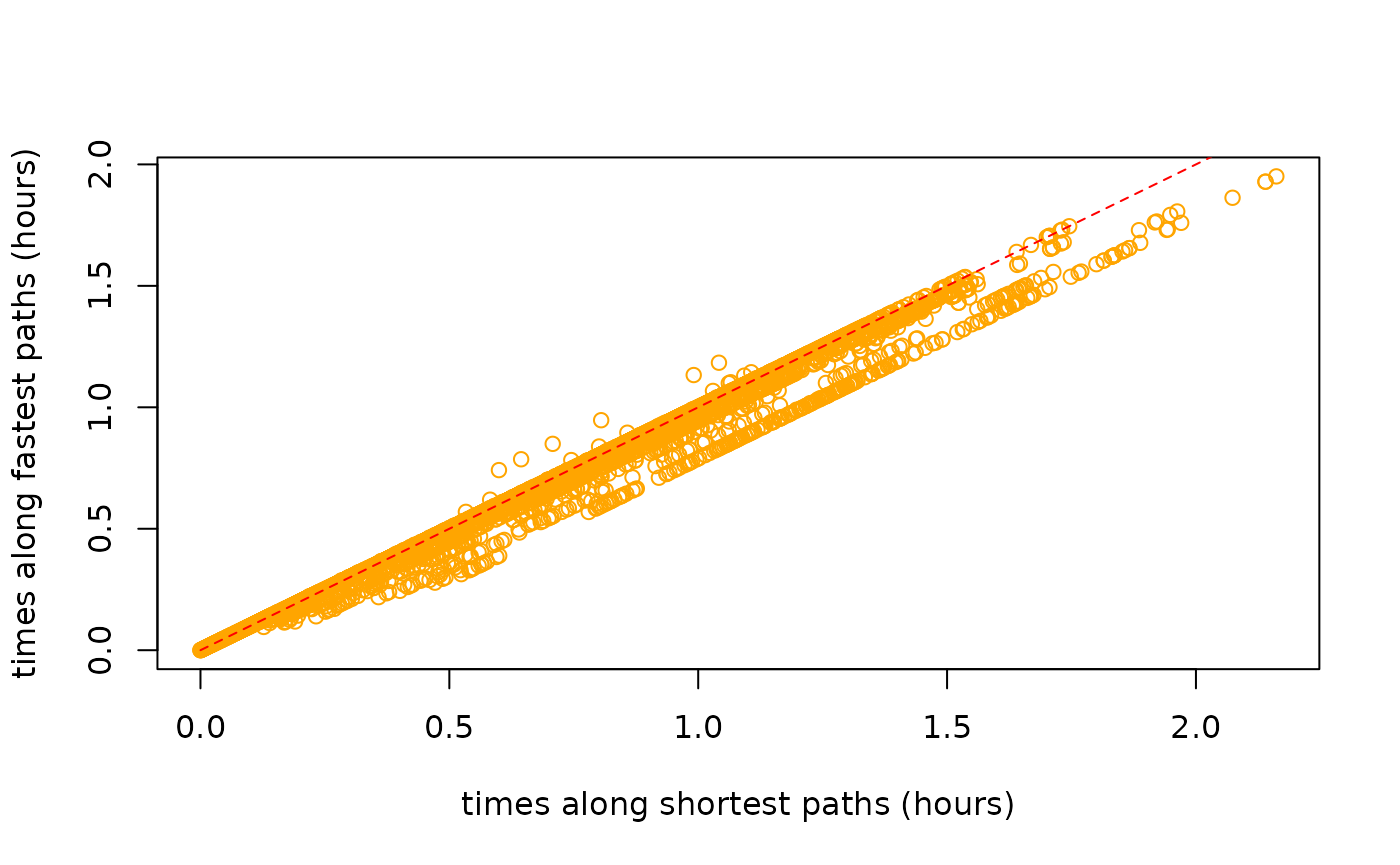
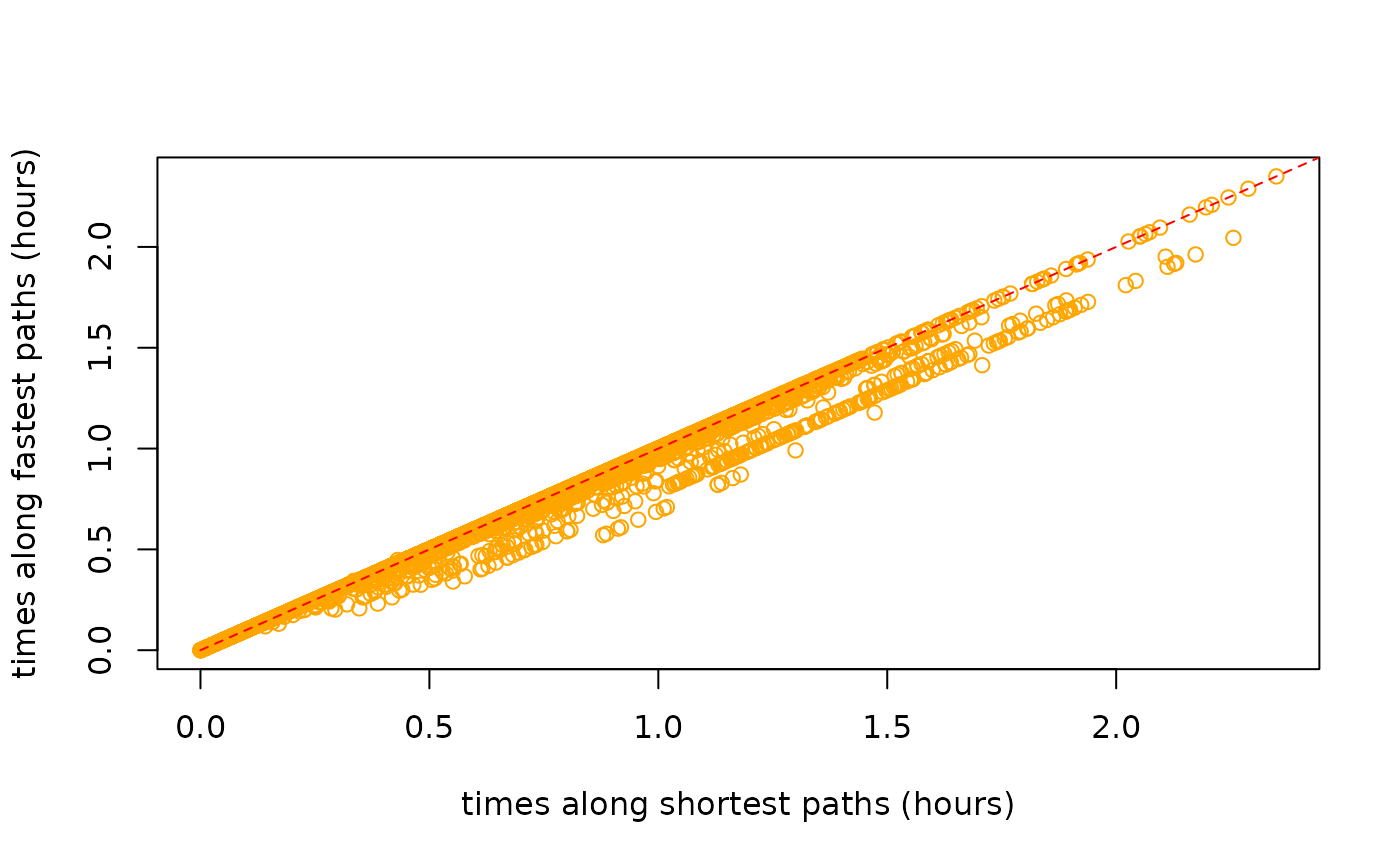
Deploying to gh-pages from @ ATFutures/dodgr@b4c1f31bfb7057be95e65e1cdec4d142c34d1589 🚀

diff --git a/docs/articles/dodgr.html b/docs/articles/dodgr.html
@@ -359,7 +359,7 @@
 <div class="sourceCode" id="cb58"><pre class="downlit sourceCode r">
 <code class="sourceCode R"><span class="va">graph_sub</span> <span class="op">&lt;-</span> <span class="fu"><a href="../reference/dodgr_sample.html">dodgr_sample</a></span> <span class="op">(</span><span class="va">graph</span>, nverts <span class="op">=</span> <span class="fl">100</span><span class="op">)</span>
 <span class="fu"><a href="https://rdrr.io/r/base/nrow.html" class="external-link">nrow</a></span> <span class="op">(</span><span class="va">graph_sub</span><span class="op">)</span></code></pre></div>
-<pre><code><span class="co">## [1] 199</span></code></pre>
+<pre><code><span class="co">## [1] 201</span></code></pre>
 <p>The random sample has around twice as many edges as vertices, in accordance with the statistics calculated above.</p>
 <div class="sourceCode" id="cb60"><pre class="downlit sourceCode r">
 <code class="sourceCode R"><span class="fu"><a href="https://rdrr.io/r/base/nrow.html" class="external-link">nrow</a></span> <span class="op">(</span><span class="fu"><a href="../reference/dodgr_vertices.html">dodgr_vertices</a></span> <span class="op">(</span><span class="va">graph_sub</span><span class="op">)</span><span class="op">)</span></code></pre></div>
@@ -450,17 +450,17 @@
 <pre><code><span class="co">## <span style="color: #949494;"># A tibble: 11 × 6</span></span>
 <span class="co">##    expression                 min   median `itr/sec` mem_alloc `gc/sec`</span>
 <span class="co">##    <span style="color: #949494; font-style: italic;">&lt;bch:expr&gt;</span>            <span style="color: #949494; font-style: italic;">&lt;bch:tm&gt;</span> <span style="color: #949494; font-style: italic;">&lt;bch:tm&gt;</span>     <span style="color: #949494; font-style: italic;">&lt;dbl&gt;</span> <span style="color: #949494; font-style: italic;">&lt;bch:byt&gt;</span>    <span style="color: #949494; font-style: italic;">&lt;dbl&gt;</span></span>
-<span class="co">## <span style="color: #BCBCBC;"> 1</span> BHeap                   1.37ms   1.47ms      687.   36.11KB     6.23</span>
-<span class="co">## <span style="color: #BCBCBC;"> 2</span> FHeap                   1.37ms   1.48ms      672.   36.11KB     4.08</span>
-<span class="co">## <span style="color: #BCBCBC;"> 3</span> TriHeap                 1.37ms   1.49ms      676.   36.11KB     6.36</span>
-<span class="co">## <span style="color: #BCBCBC;"> 4</span> TriHeapExt              1.24ms   1.28ms      781.   39.14KB     4.09</span>
-<span class="co">## <span style="color: #BCBCBC;"> 5</span> Heap23                  1.36ms   1.48ms      681.   36.11KB     6.21</span>
-<span class="co">## <span style="color: #BCBCBC;"> 6</span> BHeap_contracted        1.09ms   1.14ms      877.    2.81KB     6.18</span>
-<span class="co">## <span style="color: #BCBCBC;"> 7</span> FHeap_contracted        1.09ms   1.14ms      873.    2.81KB     6.18</span>
-<span class="co">## <span style="color: #BCBCBC;"> 8</span> TriHeap_contracted       1.1ms   1.14ms      870.    2.81KB     6.18</span>
-<span class="co">## <span style="color: #BCBCBC;"> 9</span> TriHeapExt_contracted 985.52µs   1.02ms      977.    2.81KB     6.17</span>
-<span class="co">## <span style="color: #BCBCBC;">10</span> Heap23_contracted        1.1ms   1.14ms      865.    2.81KB     6.22</span>
-<span class="co">## <span style="color: #BCBCBC;">11</span> igraph                682.01µs 714.01µs     <span style="text-decoration: underline;">1</span>389.  711.34KB     8.43</span></code></pre>
+<span class="co">## <span style="color: #BCBCBC;"> 1</span> BHeap                   2.51ms   2.65ms      375.    54.6KB     2.03</span>
+<span class="co">## <span style="color: #BCBCBC;"> 2</span> FHeap                   2.49ms   2.73ms      358.    54.6KB     4.12</span>
+<span class="co">## <span style="color: #BCBCBC;"> 3</span> TriHeap                 2.65ms   2.83ms      330.    54.6KB     4.15</span>
+<span class="co">## <span style="color: #BCBCBC;"> 4</span> TriHeapExt              2.35ms   2.54ms      379.    57.6KB     4.25</span>
+<span class="co">## <span style="color: #BCBCBC;"> 5</span> Heap23                  2.59ms   2.78ms      354.    54.6KB     2.02</span>
+<span class="co">## <span style="color: #BCBCBC;"> 6</span> BHeap_contracted        2.07ms   2.26ms      440.    28.6KB     6.26</span>
+<span class="co">## <span style="color: #BCBCBC;"> 7</span> FHeap_contracted         2.1ms   2.27ms      440.    28.6KB     4.11</span>
+<span class="co">## <span style="color: #BCBCBC;"> 8</span> TriHeap_contracted      2.09ms   2.31ms      418.    28.6KB     4.12</span>
+<span class="co">## <span style="color: #BCBCBC;"> 9</span> TriHeapExt_contracted   1.89ms   2.11ms      449.    28.6KB     4.10</span>
+<span class="co">## <span style="color: #BCBCBC;">10</span> Heap23_contracted       2.12ms   2.29ms      437.    28.6KB     4.11</span>
+<span class="co">## <span style="color: #BCBCBC;">11</span> igraph                953.55µs    1.1ms      905.   717.1KB     6.29</span></code></pre>
 <p>The key column of that <code>data.frame</code> is <code>relative</code>, which quantifies the relative performance of each test in relation to the best which is given a score of 1. <code>dodgr</code> using the default <code>heap = "BHeap"</code>, which is a binary heap priority queue, performs faster than <a href="https://igraph.org" class="external-link"><code>igraph</code></a> <span class="citation">(Csardi and Nepusz 2006)</span> for these graphs. Different kind of graphs will perform differently with different priority queue structures, and this function enables users to empirically discern the optimal heap for their kind of graph.</p>
 <p>Note, however, that this is not an entirely fair comparison, because <code>dodgr</code> calculates dual-weighted distances, whereas <a href="https://igraph.org" class="external-link"><code>igraph</code></a>—and indeed all other <strong>R</strong> packages—only directly calculate distances based on a single set of weights. Implementing dual-weighted routing in these cases requires explicitly re-tracing all paths and summing the second set of weights along each path. A time comparison in that case would be very strongly in favour of <code>dodgr</code>. Moreover, <code>dodgr</code> can convert graphs to contracted form through removing redundant vertices, as detailed in the following section. Doing so greatly improves performance with respect to <a href="https://igraph.org" class="external-link"><code>igraph</code></a>.</p>
 <p>For those wishing to do explicit comparisons themselves, the following code generates the <a href="https://igraph.org" class="external-link"><code>igraph</code></a> equivalent of <a href="https://atfutures.github.io/dodgr/reference/dodgr_distances.html" class="external-link"><code>dodgr_distances()</code></a>, although of course for single-weighted graphs only:</p>
@@ -498,8 +498,8 @@
 <pre><code><span class="co">## <span style="color: #949494;"># A tibble: 2 × 6</span></span>
 <span class="co">##   expression      min   median `itr/sec` mem_alloc `gc/sec`</span>
 <span class="co">##   <span style="color: #949494; font-style: italic;">&lt;bch:expr&gt;</span> <span style="color: #949494; font-style: italic;">&lt;bch:tm&gt;</span> <span style="color: #949494; font-style: italic;">&lt;bch:tm&gt;</span>     <span style="color: #949494; font-style: italic;">&lt;dbl&gt;</span> <span style="color: #949494; font-style: italic;">&lt;bch:byt&gt;</span>    <span style="color: #949494; font-style: italic;">&lt;dbl&gt;</span></span>
-<span class="co">## <span style="color: #BCBCBC;">1</span> full         16.4ms  16.78ms      59.0    1.32MB     2.04</span>
-<span class="co">## <span style="color: #BCBCBC;">2</span> contracted   2.73ms   2.79ms     357.    365.3KB     2.03</span></code></pre>
+<span class="co">## <span style="color: #BCBCBC;">1</span> full           20ms  21.12ms      47.0    1.32MB     0   </span>
+<span class="co">## <span style="color: #BCBCBC;">2</span> contracted   3.02ms   3.53ms     282.    365.3KB     4.15</span></code></pre>
 <p>And contracting the graph has a similar effect of speeding up pairwise routing between these 100 points. All routing algorithms scale non-linearly with size, and relative improvements in efficiency will be even greater for larger graphs.</p>
 <div class="section level3">
 <h3 id="routing-on-contracted-graphs">5.1 Routing on Contracted Graphs<a class="anchor" aria-label="anchor" href="#routing-on-contracted-graphs"></a>
@@ -513,12 +513,12 @@
 <div class="sourceCode" id="cb90"><pre class="downlit sourceCode r">
 <code class="sourceCode R"><span class="va">verts</span> <span class="op">&lt;-</span> <span class="fu"><a href="https://rdrr.io/r/base/sample.html" class="external-link">sample</a></span> <span class="op">(</span><span class="fu"><a href="../reference/dodgr_vertices.html">dodgr_vertices</a></span> <span class="op">(</span><span class="va">graph</span><span class="op">)</span><span class="op">$</span><span class="va">id</span>, size <span class="op">=</span> <span class="fl">100</span><span class="op">)</span>
 <span class="fu"><a href="https://rdrr.io/r/utils/head.html" class="external-link">head</a></span> <span class="op">(</span><span class="va">verts</span><span class="op">)</span> <span class="co"># a character vector</span></code></pre></div>
-<pre><code><span class="co">## [1] "5974426261" "3921524452" "3921523907" "6161853512" "5351820875"</span>
-<span class="co">## [6] "1398748002"</span></code></pre>
+<pre><code><span class="co">## [1] "571423192"  "2608076417" "2608163888" "1143452436" "7793366193"</span>
+<span class="co">## [6] "977473138"</span></code></pre>
 <div class="sourceCode" id="cb92"><pre class="downlit sourceCode r">
 <code class="sourceCode R"><span class="va">grc</span> <span class="op">&lt;-</span> <span class="fu"><a href="../reference/dodgr_contract_graph.html">dodgr_contract_graph</a></span> <span class="op">(</span><span class="va">graph</span>, <span class="va">verts</span><span class="op">)</span>
 <span class="fu"><a href="https://rdrr.io/r/base/nrow.html" class="external-link">nrow</a></span> <span class="op">(</span><span class="va">grc</span><span class="op">)</span></code></pre></div>
-<pre><code><span class="co">## [1] 946</span></code></pre>
+<pre><code><span class="co">## [1] 954</span></code></pre>
 <p>Retaining the nominated vertices yields a graph with considerably more edges than the fully contracted graph excluding these vertices. The <a href="https://atfutures.github.io/dodgr/reference/dodgr_distances.html" class="external-link"><code>dodgr_distances()</code></a> function can be applied to the latter graph to obtain accurate distances precisely routed between these points, yet using the speed advantages of graph contraction.</p>
 </div>
 </div>
@@ -556,44 +556,79 @@
 <p>The result (<code>dp</code>) is a list of 10 items, each of which contains 5 vectors. An example is,</p>
 <div class="sourceCode" id="cb99"><pre class="downlit sourceCode r">
 <code class="sourceCode R"><span class="va">dp</span> <span class="op">[[</span><span class="fl">1</span><span class="op">]</span><span class="op">]</span> <span class="op">[[</span><span class="fl">1</span><span class="op">]</span><span class="op">]</span></code></pre></div>
-<pre><code><span class="co">##   [1] "2398957877" "2398957874" "980400526"  "980400777"  "980400432" </span>
-<span class="co">##   [6] "2398957870" "2398957868" "980400561"  "2398957861" "980400400" </span>
-<span class="co">##  [11] "2398957857" "980400945"  "2398957852" "2398957853" "2398957855"</span>
-<span class="co">##  [16] "2398957859" "2398957858" "980400836"  "2398957860" "980400706" </span>
-<span class="co">##  [21] "2398957866" "980400446"  "2398957876" "2398957878" "980400323" </span>
-<span class="co">##  [26] "6161027560" "286632902"  "339574320"  "2398957885" "2398957883"</span>
-<span class="co">##  [31] "286632901"  "7808713128" "2398957865" "286632900"  "980400336" </span>
-<span class="co">##  [36] "2398957864" "286632899"  "2398957863" "1715805189" "1715805188"</span>
-<span class="co">##  [41] "8615359651" "2398957850" "286632898"  "2398957846" "1715805187"</span>
-<span class="co">##  [46] "980400489"  "338904394"  "3921515457" "2398957849" "2398957851"</span>
-<span class="co">##  [51] "2398957854" "286632897"  "2398957856" "1054864311" "338904393" </span>
-<span class="co">##  [56] "4035136503" "2627477006" "338512693"  "2398957844" "2398957842"</span>
-<span class="co">##  [61] "2398957841" "1604033309" "2398957838" "286632896"  "2398957835"</span>
-<span class="co">##  [66] "2398957831" "1390214618" "286632895"  "2398957814" "2398957809"</span>
-<span class="co">##  [71] "340148007"  "340148006"  "2398957798" "2398957797" "2398957796"</span>
-<span class="co">##  [76] "2398957795" "2398957794" "286632890"  "2398957793" "2398957792"</span>
-<span class="co">##  [81] "1390214848" "286632889"  "2398957783" "2398957782" "1390214918"</span>
-<span class="co">##  [86] "2398957775" "2398957774" "2398957768" "2398957765" "2398957764"</span>
-<span class="co">##  [91] "2398957762" "2398957761" "2398957760" "2398957758" "286632888" </span>
-<span class="co">##  [96] "2398957754" "2398957751" "1390214349" "2398957748" "2398957747"</span>
-<span class="co">## [101] "2588146032" "2588146091" "2588146120" "2588146042" "2588146050"</span>
-<span class="co">## [106] "2588146081" "2588146089" "2588146101" "2588146103" "2588146098"</span>
-<span class="co">## [111] "7793361765" "7793361766" "2588146125" "2588146020" "2588146127"</span>
-<span class="co">## [116] "7793361767" "7793361769" "7793361768" "7793361770" "2588146068"</span>
-<span class="co">## [121] "5351820916" "5351820915" "5351820914" "5351820913" "5974426258"</span>
-<span class="co">## [126] "5351820911" "5974426265" "5974426272" "5351820910"</span></code></pre>
+<pre><code><span class="co">##   [1] "6161027522" "1128374412" "1376769190" "7806119994" "7806119993"</span>
+<span class="co">##   [6] "1128374442" "7806119995" "7806119996" "676875269"  "245631169" </span>
+<span class="co">##  [11] "7806119997" "1376768805" "2398957722" "313796425"  "2398957720"</span>
+<span class="co">##  [16] "1376769010" "2398957713" "1376768565" "2398957701" "2398957696"</span>
+<span class="co">##  [21] "1128374495" "313796426"  "1128374399" "313796427"  "313796428" </span>
+<span class="co">##  [26] "7800064231" "2398957603" "313796429"  "1427594112" "1376769158"</span>
+<span class="co">##  [31] "313796430"  "7800064225" "7800064226" "313796431"  "2398957567"</span>
+<span class="co">##  [36] "2398957563" "3338186986" "313796432"  "2398957555" "2398957554"</span>
+<span class="co">##  [41] "1376768773" "313796433"  "2419196948" "2398957539" "676875267" </span>
+<span class="co">##  [46] "2398957521" "2398957526" "2398957532" "2398957537" "676635860" </span>
+<span class="co">##  [51] "2398957542" "2398957543" "2398957544" "2398957546" "338905245" </span>
+<span class="co">##  [56] "2398957549" "2398957557" "2398957561" "338905227"  "2398957564"</span>
+<span class="co">##  [61] "338905221"  "2398957568" "2398957570" "2398957571" "1427594104"</span>
+<span class="co">##  [66] "2398957576" "338905220"  "338907543"  "2398957585" "338907597" </span>
+<span class="co">##  [71] "8617277067" "338907642"  "338907666"  "2398957596" "8617277072"</span>
+<span class="co">##  [76] "8617277069" "2398957598" "8617277068" "2398957600" "2398957597"</span>
+<span class="co">##  [81] "8617277071" "338907879"  "8617277070" "8617277065" "338907906" </span>
+<span class="co">##  [86] "8617277064" "2398957606" "8617277066" "2398957607" "338908066" </span>
+<span class="co">##  [91] "2398957614" "2398957617" "2398957621" "338908089"  "1427115975"</span>
+<span class="co">##  [96] "1427115980" "1427115996" "1427116000" "2398957633" "2398957634"</span>
+<span class="co">## [101] "2398957637" "2398957645" "8690943502" "2398957648" "8690943503"</span>
+<span class="co">## [106] "8690943504" "8690943505" "8690943506" "8690943507" "8690943508"</span>
+<span class="co">## [111] "8690943509" "8690943510" "8690943511" "8690943512" "8690943513"</span>
+<span class="co">## [116] "8690943514" "8690943515" "8690943516" "8690943717" "8690943718"</span>
+<span class="co">## [121] "8690943719" "8690943720" "8690943501" "2717241335" "2717241319"</span>
+<span class="co">## [126] "2717241324" "339574631"  "2398957686" "3818714155" "339574819" </span>
+<span class="co">## [131] "339574820"  "3818714154" "6228103645" "6228103646" "6228103647"</span>
+<span class="co">## [136] "6228103648" "6228103649" "8632960963" "8632960975" "8632960962"</span>
+<span class="co">## [141] "339574828"  "8632923847" "8632923848" "8632923845" "8632923846"</span>
+<span class="co">## [146] "339574829"  "8615528134" "1376768626" "8615528135" "1376768985"</span>
+<span class="co">## [151] "8615528133" "1376768324" "1376768690" "8615528132" "1376769039"</span>
+<span class="co">## [156] "8615528130" "8615528131" "8615528129" "1376768478" "8615528128"</span>
+<span class="co">## [161] "1560930407" "8615528126" "8615528125" "8615528127" "1376768586"</span>
+<span class="co">## [166] "1376768946" "8615528124" "1376768369" "8615528121" "8615528122"</span>
+<span class="co">## [171] "8615528123" "1376768738" "2717241312" "2717241323" "2717241306"</span>
+<span class="co">## [176] "2717241321" "2717241309" "2717241332" "2717241339" "2717241317"</span>
+<span class="co">## [181] "2717241331" "2717241300" "2717241302" "6410121124" "1376768559"</span>
+<span class="co">## [186] "1376768918" "1376769209" "1376768614" "1376768975" "1376768398"</span>
+<span class="co">## [191] "7794426716" "1376768862" "1376768464" "1376768828" "1376769110"</span>
+<span class="co">## [196] "3697937607" "3697937608" "3697937609" "3697937616" "3697937612"</span>
+<span class="co">## [201] "3697937611" "3697937613" "3697937614" "3697937615" "3697937610"</span>
+<span class="co">## [206] "3697937571" "3697938325" "3697938326" "3697938327" "3697938328"</span>
+<span class="co">## [211] "3697938332" "3697938329" "3697938330" "3697938331" "3697938336"</span>
+<span class="co">## [216] "3697938337" "3697938338" "3697938333" "3697938334" "3697938335"</span>
+<span class="co">## [221] "3697938022" "3697938021" "8616917039" "8616917040" "3697938023"</span>
+<span class="co">## [226] "8616917041" "3697938024" "338904455"  "2398957843" "338908589" </span>
+<span class="co">## [231] "8616917042" "8616917043" "8616917044" "1148814896" "286632900" </span>
+<span class="co">## [236] "2398957865" "7808713128" "286632901"  "2398957883" "2398957885"</span>
+<span class="co">## [241] "339574320"  "2627477682" "2627477678" "3456932070" "2627477679"</span>
+<span class="co">## [246] "2627477677" "2627477680" "2627477681" "4474520825" "977478643" </span>
+<span class="co">## [251] "339059758"  "245631133"  "4474520824" "1676740773" "977478675" </span>
+<span class="co">## [256] "339059754"  "2636414338" "2636414331" "339318467"  "2636414337"</span>
+<span class="co">## [261] "339318470"  "339318471"  "339318473"  "339318476"  "339318477" </span>
+<span class="co">## [266] "339318478"  "339318479"  "1148814933" "339318480"  "339318481" </span>
+<span class="co">## [271] "1148815066" "1148815206" "2627465888" "2636414335" "7799710902"</span>
+<span class="co">## [276] "2636414336" "7799710901" "571423844"  "571423845"  "1148815031"</span>
+<span class="co">## [281] "571423832"  "339318489"  "339318490"  "339318491"  "339318492" </span>
+<span class="co">## [286] "339318493"  "2398958013" "339318494"  "339318495"  "339318496" </span>
+<span class="co">## [291] "339318497"  "2398958019" "2398958018" "339318498"  "2398958020"</span>
+<span class="co">## [296] "2627465886" "2398958021" "339318499"  "977473005"  "339318500" </span>
+<span class="co">## [301] "339318502"  "2398958028"</span></code></pre>
 <p>For spatial graphs, the coordinates of these paths can be obtained by extracting the vertices with <code><a href="../reference/dodgr_vertices.html">dodgr_vertices()</a></code> and matching the vertex IDs:</p>
 <div class="sourceCode" id="cb101"><pre class="downlit sourceCode r">
 <code class="sourceCode R"><span class="va">verts</span> <span class="op">&lt;-</span> <span class="fu"><a href="../reference/dodgr_vertices.html">dodgr_vertices</a></span> <span class="op">(</span><span class="va">graph</span><span class="op">)</span>
 <span class="va">path1</span> <span class="op">&lt;-</span> <span class="va">verts</span> <span class="op">[</span><span class="fu"><a href="https://rdrr.io/r/base/match.html" class="external-link">match</a></span> <span class="op">(</span><span class="va">dp</span> <span class="op">[[</span><span class="fl">1</span><span class="op">]</span><span class="op">]</span> <span class="op">[[</span><span class="fl">1</span><span class="op">]</span><span class="op">]</span>, <span class="va">verts</span><span class="op">$</span><span class="va">id</span><span class="op">)</span>, <span class="op">]</span>
 <span class="fu"><a href="https://rdrr.io/r/utils/head.html" class="external-link">head</a></span> <span class="op">(</span><span class="va">path1</span><span class="op">)</span></code></pre></div>
-<pre><code><span class="co">##              id        x        y component   n</span>
-<span class="co">## 1792 2398957877 76.46664 15.33200         1 907</span>
-<span class="co">## 1794 2398957874 76.46655 15.33188         1 908</span>
-<span class="co">## 1796  980400526 76.46644 15.33175         1 909</span>
-<span class="co">## 1798  980400777 76.46637 15.33161         1 910</span>
-<span class="co">## 1800  980400432 76.46631 15.33137         1 911</span>
-<span class="co">## 1802 2398957870 76.46523 15.33164         1 912</span></code></pre>
+<pre><code><span class="co">##              id        x        y component    n</span>
+<span class="co">## 5832 6161027522 76.48787 15.32197         1 2879</span>
+<span class="co">## 5834 1128374412 76.48728 15.32179         1 2880</span>
+<span class="co">## 5836 1376769190 76.48682 15.32164         1 2881</span>
+<span class="co">## 5838 7806119994 76.48633 15.32141         1 2882</span>
+<span class="co">## 5840 7806119993 76.48605 15.32126         1 2883</span>
+<span class="co">## 5842 1128374442 76.48573 15.32106         1 2884</span></code></pre>
 <p>Paths calculated on contracted graphs will of course have fewer vertices than those calculated on full graphs.</p>
 </div>
 <div class="section level2">

diff --git a/docs/articles/times.html b/docs/articles/times.html
@@ -234,12 +234,12 @@
 <p>The average distance between the two (in metres) is:</p>
 <div class="sourceCode" id="cb9"><pre class="downlit sourceCode r">
 <code class="sourceCode R"><span class="fu"><a href="https://rdrr.io/r/base/mean.html" class="external-link">mean</a></span> <span class="op">(</span><span class="fu"><a href="https://rdrr.io/r/base/MathFun.html" class="external-link">abs</a></span> <span class="op">(</span><span class="va">d_time</span> <span class="op">-</span> <span class="va">d_dist</span><span class="op">)</span>, na.rm <span class="op">=</span> <span class="cn">TRUE</span><span class="op">)</span></code></pre></div>
-<pre><code><span class="co">## [1] 36.7008</span></code></pre>
+<pre><code><span class="co">## [1] 20.29963</span></code></pre>
 <p>The plot reveals that shortest distances are indeed somewhat shorter than distances along fastest paths, but also that some fastest paths are actually shorter than shortest paths:</p>
 <div class="sourceCode" id="cb11"><pre class="downlit sourceCode r">
 <code class="sourceCode R"><span class="va">index</span> <span class="op">&lt;-</span> <span class="fu"><a href="https://rdrr.io/r/base/which.html" class="external-link">which</a></span> <span class="op">(</span><span class="op">!</span><span class="fu"><a href="https://rdrr.io/r/base/NA.html" class="external-link">is.na</a></span> <span class="op">(</span><span class="va">d_time</span><span class="op">)</span> <span class="op">&amp;</span> <span class="op">!</span><span class="fu"><a href="https://rdrr.io/r/base/NA.html" class="external-link">is.na</a></span> <span class="op">(</span><span class="va">d_dist</span><span class="op">)</span><span class="op">)</span>
 <span class="fu"><a href="https://rdrr.io/r/base/length.html" class="external-link">length</a></span> <span class="op">(</span><span class="fu"><a href="https://rdrr.io/r/base/which.html" class="external-link">which</a></span> <span class="op">(</span><span class="va">d_time</span> <span class="op">[</span><span class="va">index</span><span class="op">]</span> <span class="op">&lt;</span> <span class="va">d_dist</span> <span class="op">[</span><span class="va">index</span><span class="op">]</span><span class="op">)</span><span class="op">)</span> <span class="op">/</span> <span class="fu"><a href="https://rdrr.io/r/base/length.html" class="external-link">length</a></span> <span class="op">(</span><span class="va">index</span><span class="op">)</span></code></pre></div>
-<pre><code><span class="co">## [1] 0.02588043</span></code></pre>
+<pre><code><span class="co">## [1] 0.02607076</span></code></pre>
 <p>While <code>dodgr</code> and indeed all routing engines attempt to maximally reconcile differences between fastest and shortest routes, there nevertheless remain important discrepancies. Foremost among these, and the primary reason why some fastest routes may in fact be shorter than shortest routes, is that fastest routes allocate preferences for different kinds of way based both on the <code>value</code> column in the <code>weighting_profiles$weighting_profiles</code> table illustrated above, and on the actual maximum speed of a given edge, which itself may be a combination of maximum speeds as specified in OSM itself, maximum speeds from the <code>weighting_profiles$weighting_profiles</code> table, or values specific to a given surface. The result is that some unique combination of maximum speeds along a network may lead to <em>fastest</em> routes being preferentially directed along a path that is actually shorter than the direct shortest path which is calculated independent of maximum speed values.</p>
 <p>Such discrepancies are important in understanding differences in routes <em>times</em> calculated along shortest versus fastest paths. These times can be calculated (in seconds) with the <a href="https://atfutures.github.io/dodgr/reference/dodgr_times.html" class="external-link"><code>dodgr_times()</code></a> function:</p>
 <div class="sourceCode" id="cb13"><pre class="downlit sourceCode r">
@@ -252,12 +252,12 @@
 <p><img src="times_files/figure-html/shortest-vs-fastest-times-1.png" width="700"></p>
 <div class="sourceCode" id="cb14"><pre class="downlit sourceCode r">
 <code class="sourceCode R"><span class="fu"><a href="https://rdrr.io/r/base/mean.html" class="external-link">mean</a></span> <span class="op">(</span><span class="fu"><a href="https://rdrr.io/r/base/MathFun.html" class="external-link">abs</a></span> <span class="op">(</span><span class="va">t_time</span> <span class="op">-</span> <span class="va">t_dist</span><span class="op">)</span>, na.rm <span class="op">=</span> <span class="cn">TRUE</span><span class="op">)</span></code></pre></div>
-<pre><code><span class="co">## [1] 76.14414</span></code></pre>
+<pre><code><span class="co">## [1] 57.03886</span></code></pre>
 <p>As above, times along fastest paths are generally less than times along shortest paths, although there are again a few exceptions:</p>
 <div class="sourceCode" id="cb16"><pre class="downlit sourceCode r">
 <code class="sourceCode R"><span class="va">index</span> <span class="op">&lt;-</span> <span class="fu"><a href="https://rdrr.io/r/base/which.html" class="external-link">which</a></span> <span class="op">(</span><span class="op">!</span><span class="fu"><a href="https://rdrr.io/r/base/NA.html" class="external-link">is.na</a></span> <span class="op">(</span><span class="va">t_time</span><span class="op">)</span> <span class="op">&amp;</span> <span class="op">!</span><span class="fu"><a href="https://rdrr.io/r/base/NA.html" class="external-link">is.na</a></span> <span class="op">(</span><span class="va">t_dist</span><span class="op">)</span><span class="op">)</span>
 <span class="fu"><a href="https://rdrr.io/r/base/length.html" class="external-link">length</a></span> <span class="op">(</span><span class="fu"><a href="https://rdrr.io/r/base/which.html" class="external-link">which</a></span> <span class="op">(</span><span class="va">t_dist</span> <span class="op">[</span><span class="va">index</span><span class="op">]</span> <span class="op">&lt;</span> <span class="va">t_time</span> <span class="op">[</span><span class="va">index</span><span class="op">]</span><span class="op">)</span><span class="op">)</span> <span class="op">/</span> <span class="fu"><a href="https://rdrr.io/r/base/length.html" class="external-link">length</a></span> <span class="op">(</span><span class="va">index</span><span class="op">)</span></code></pre></div>
-<pre><code><span class="co">## [1] 0.01441441</span></code></pre>
+<pre><code><span class="co">## [1] 0.0003724395</span></code></pre>
 <p>These results demonstrate how the combination of the <a href="https://atfutures.github.io/dodgr/reference/dodgr_distances.html" class="external-link"><code>dodgr_distances()</code></a> and <a href="https://atfutures.github.io/dodgr/reference/dodgr_times.html" class="external-link"><code>dodgr_times()</code></a> functions enable calculation of both distances and times along both shortest and fastest paths.</p>
 <div class="section level3">
 <h3 id="time-based-paths-and-flow-aggregation">4.1 Time-based paths and flow aggregation<a class="anchor" aria-label="anchor" href="#time-based-paths-and-flow-aggregation"></a>

diff --git a/docs/articles/flows.html b/docs/articles/flows.html
@@ -104,18 +104,25 @@
 <span class="co">## 4        1       4 2398958028 76.47621 15.34174  339318502 76.47612 15.34173</span>
 <span class="co">## 5        1       5 2398958028 76.47621 15.34174 1427116077 76.47628 15.34179</span>
 <span class="co">## 6        1       6 1427116077 76.47628 15.34179 2398958028 76.47621 15.34174</span>
-<span class="co">##            d d_weighted highway   way_id component      time time_weighted flow</span>
-<span class="co">## 1 129.972181 129.972181    path 28565950         1 93.579970     93.579970    0</span>
-<span class="co">## 2 129.972181 129.972181    path 28565950         1 93.579970     93.579970    0</span>
-<span class="co">## 3   8.888670   8.888670    path 28565950         1  6.399842      6.399842    0</span>
-<span class="co">## 4   8.888670   8.888670    path 28565950         1  6.399842      6.399842    0</span>
-<span class="co">## 5   9.326536   9.326536    path 28565950         1  6.715106      6.715106    0</span>
-<span class="co">## 6   9.326536   9.326536    path 28565950         1  6.715106      6.715106    0</span></code></pre>
+<span class="co">##            d d_weighted highway   way_id component      time time_weighted</span>
+<span class="co">## 1 129.972181 129.972181    path 28565950         1 93.579970     93.579970</span>
+<span class="co">## 2 129.972181 129.972181    path 28565950         1 93.579970     93.579970</span>
+<span class="co">## 3   8.888670   8.888670    path 28565950         1  6.399842      6.399842</span>
+<span class="co">## 4   8.888670   8.888670    path 28565950         1  6.399842      6.399842</span>
+<span class="co">## 5   9.326536   9.326536    path 28565950         1  6.715106      6.715106</span>
+<span class="co">## 6   9.326536   9.326536    path 28565950         1  6.715106      6.715106</span>
+<span class="co">##        flow</span>
+<span class="co">## 1 0.0000000</span>
+<span class="co">## 2 0.2069595</span>
+<span class="co">## 3 0.0000000</span>
+<span class="co">## 4 0.2069595</span>
+<span class="co">## 5 0.0000000</span>
+<span class="co">## 6 0.2069595</span></code></pre>
 <p>Most flows are zero because they have only been calculated between very few points in the graph.</p>
 <div class="sourceCode" id="cb4"><pre class="downlit sourceCode r">
 <code class="sourceCode R"><span class="fu"><a href="https://rdrr.io/r/base/summary.html" class="external-link">summary</a></span> <span class="op">(</span><span class="va">graph_f</span><span class="op">$</span><span class="va">flow</span><span class="op">)</span></code></pre></div>
 <pre><code><span class="co">##    Min. 1st Qu.  Median    Mean 3rd Qu.    Max. </span>
-<span class="co">## 0.00000 0.00000 0.00000 0.03411 0.00000 1.73808</span></code></pre>
+<span class="co">## 0.00000 0.00000 0.00000 0.04325 0.00000 1.17922</span></code></pre>
 </div>
 <div class="section level2">
 <h2 id="flow-dispersal">2 Flow Dispersal<a class="anchor" aria-label="anchor" href="#flow-dispersal"></a>
@@ -126,7 +133,7 @@
 <span class="va">graph_f</span> <span class="op">&lt;-</span> <span class="fu"><a href="../reference/dodgr_flows_disperse.html">dodgr_flows_disperse</a></span> <span class="op">(</span><span class="va">graph</span>, from <span class="op">=</span> <span class="va">from</span>, dens <span class="op">=</span> <span class="va">dens</span><span class="op">)</span>
 <span class="fu"><a href="https://rdrr.io/r/base/summary.html" class="external-link">summary</a></span> <span class="op">(</span><span class="va">graph_f</span><span class="op">$</span><span class="va">flow</span><span class="op">)</span></code></pre></div>
 <pre><code><span class="co">##      Min.   1st Qu.    Median      Mean   3rd Qu.      Max. </span>
-<span class="co">## 0.0000000 0.0000000 0.0002021 0.0014678 0.0012206 0.1433294</span></code></pre>
+<span class="co">## 0.0000000 0.0000000 0.0001816 0.0014678 0.0017138 0.0373711</span></code></pre>
 </div>
 <div class="section level2">
 <h2 id="merging-directed-flows">3 Merging directed flows<a class="anchor" aria-label="anchor" href="#merging-directed-flows"></a>
@@ -138,7 +145,7 @@
 <div class="sourceCode" id="cb9"><pre class="downlit sourceCode r">
 <code class="sourceCode R"><span class="fu"><a href="https://rdrr.io/r/base/nrow.html" class="external-link">nrow</a></span> <span class="op">(</span><span class="va">graph_f</span><span class="op">)</span>; <span class="fu"><a href="https://rdrr.io/r/base/nrow.html" class="external-link">nrow</a></span> <span class="op">(</span><span class="va">graph_undir</span><span class="op">)</span> <span class="co"># the latter is much smaller</span></code></pre></div>
 <pre><code><span class="co">## [1] 6813</span></code></pre>
-<pre><code><span class="co">## [1] 3337</span></code></pre>
+<pre><code><span class="co">## [1] 3343</span></code></pre>
 <p>The resultant graph can readily be merged with the original graph to regain the original data on vertex coordinates through</p>
 <div class="sourceCode" id="cb12"><pre class="downlit sourceCode r">
 <code class="sourceCode R"><span class="va">graph</span> <span class="op">&lt;-</span> <span class="va">graph</span> <span class="op">[</span><span class="va">graph_undir</span><span class="op">$</span><span class="va">edge_id</span>, <span class="op">]</span>

diff --git a/docs/articles/dists-categorical.html b/docs/articles/dists-categorical.html
@@ -154,8 +154,8 @@
 <pre><code><span class="co">## <span style="color: #949494;"># A tibble: 2 × 3</span></span>
 <span class="co">##   expression   min median</span>
 <span class="co">##   <span style="color: #949494; font-style: italic;">&lt;bch:expr&gt;</span> <span style="color: #949494; font-style: italic;">&lt;dbl&gt;</span>  <span style="color: #949494; font-style: italic;">&lt;dbl&gt;</span></span>
-<span class="co">## <span style="color: #BCBCBC;">1</span> full       0.900  0.900</span>
-<span class="co">## <span style="color: #BCBCBC;">2</span> prop_only  0.316  0.316</span></code></pre>
+<span class="co">## <span style="color: #BCBCBC;">1</span> full       1.08   1.08 </span>
+<span class="co">## <span style="color: #BCBCBC;">2</span> prop_only  0.416  0.427</span></code></pre>
 <p>The default value of <code>proportions_only = FALSE</code> should be used only if additional information from the distance matrices themselves is required or desired. Examples of such additional information include parameters quantifying the distributions of the various distance metrics, as further examined below.</p>
 </div>
 <div class="section level2">
@@ -204,11 +204,11 @@
              dlimit <span class="op">=</span> <span class="fu"><a href="../reference/dodgr_dists_categorical.html">dodgr_dists_categorical</a></span> <span class="op">(</span><span class="va">graph</span>, <span class="va">from</span>, dlimit <span class="op">=</span> <span class="fl">2000</span><span class="op">)</span>,
              check <span class="op">=</span> <span class="cn">FALSE</span>, time_unit <span class="op">=</span> <span class="st">"s"</span><span class="op">)</span> <span class="op">[</span>, <span class="fl">1</span><span class="op">:</span><span class="fl">3</span><span class="op">]</span></code></pre></div>
 <pre><code><span class="co">## <span style="color: #949494;"># A tibble: 3 × 3</span></span>
-<span class="co">##   expression    min median</span>
-<span class="co">##   <span style="color: #949494; font-style: italic;">&lt;bch:expr&gt;</span>  <span style="color: #949494; font-style: italic;">&lt;dbl&gt;</span>  <span style="color: #949494; font-style: italic;">&lt;dbl&gt;</span></span>
-<span class="co">## <span style="color: #BCBCBC;">1</span> full       0.960  0.960 </span>
-<span class="co">## <span style="color: #BCBCBC;">2</span> prop_only  0.315  0.317 </span>
-<span class="co">## <span style="color: #BCBCBC;">3</span> dlimit     0.082<span style="text-decoration: underline;">2</span> 0.082<span style="text-decoration: underline;">8</span></span></code></pre>
+<span class="co">##   expression   min median</span>
+<span class="co">##   <span style="color: #949494; font-style: italic;">&lt;bch:expr&gt;</span> <span style="color: #949494; font-style: italic;">&lt;dbl&gt;</span>  <span style="color: #949494; font-style: italic;">&lt;dbl&gt;</span></span>
+<span class="co">## <span style="color: #BCBCBC;">1</span> full       1.12   1.12 </span>
+<span class="co">## <span style="color: #BCBCBC;">2</span> prop_only  0.437  0.441</span>
+<span class="co">## <span style="color: #BCBCBC;">3</span> dlimit     0.111  0.114</span></code></pre>
 <p>Finally, note that the efficiency of distance-threshold queries scales non-linearly with increases in <code>dlimit</code>, with queries quickly becoming less efficient for larger values of <code>dlimit</code>.</p>
 </div>
   </div>

diff --git a/docs/reference/match_points_to_graph.html b/docs/reference/match_points_to_graph.html
@@ -109,11 +109,11 @@ matching.</p></dd>
 <span class="r-in">                  <span class="op">)</span></span>
 <span class="r-in"><span class="va">pts</span> <span class="op">&lt;-</span> <span class="fu"><a href="match_pts_to_graph.html">match_pts_to_graph</a></span> <span class="op">(</span><span class="va">verts</span>, <span class="va">xy</span><span class="op">)</span></span>
 <span class="r-in"><span class="va">pts</span> <span class="co"># an index into verts</span></span>
-<span class="r-out co"><span class="r-pr">#&gt;</span>  [1] 3052 3073 3072 2128 2727 2296 2474 1704 3077 1704</span>
+<span class="r-out co"><span class="r-pr">#&gt;</span>  [1] 3051 1705 3083 1833 3084 3056  391 1292 1746 1061</span>
 <span class="r-in"><span class="va">pts</span> <span class="op">&lt;-</span> <span class="va">verts</span><span class="op">$</span><span class="va">id</span> <span class="op">[</span><span class="va">pts</span><span class="op">]</span></span>
 <span class="r-in"><span class="va">pts</span> <span class="co"># names of those vertices</span></span>
-<span class="r-out co"><span class="r-pr">#&gt;</span>  [1] "7769271419" "1204772877" "1204772675" "2627486257" "4506481406"</span>
-<span class="r-out co"><span class="r-pr">#&gt;</span>  [6] "338904865"  "3818709607" "2588119056" "6597298435" "2588119056"</span>
+<span class="r-out co"><span class="r-pr">#&gt;</span>  [1] "6025347259" "2588146107" "1204772909" "7794251384" "1204772735"</span>
+<span class="r-out co"><span class="r-pr">#&gt;</span>  [6] "1388482509" "571423433"  "7799711092" "2588146070" "1376768697"</span>
 </code></pre></div>
     </div>
   </div>

diff --git a/docs/reference/match_pts_to_graph.html b/docs/reference/match_pts_to_graph.html
@@ -109,11 +109,11 @@ matching.</p></dd>
 <span class="r-in">                  <span class="op">)</span></span>
 <span class="r-in"><span class="va">pts</span> <span class="op">&lt;-</span> <span class="fu">match_pts_to_graph</span> <span class="op">(</span><span class="va">verts</span>, <span class="va">xy</span><span class="op">)</span></span>
 <span class="r-in"><span class="va">pts</span> <span class="co"># an index into verts</span></span>
-<span class="r-out co"><span class="r-pr">#&gt;</span>  [1]  253 1705 3052  507  824   11  599 3052 2919 3057</span>
+<span class="r-out co"><span class="r-pr">#&gt;</span>  [1] 2923 3080  742 1709 1813  298 3073 2596 1710  488</span>
 <span class="r-in"><span class="va">pts</span> <span class="op">&lt;-</span> <span class="va">verts</span><span class="op">$</span><span class="va">id</span> <span class="op">[</span><span class="va">pts</span><span class="op">]</span></span>
 <span class="r-in"><span class="va">pts</span> <span class="co"># names of those vertices</span></span>
-<span class="r-out co"><span class="r-pr">#&gt;</span>  [1] "7794286129" "2588146107" "7769271419" "2398957792" "8173087821"</span>
-<span class="r-out co"><span class="r-pr">#&gt;</span>  [6] "2398958016" "977490130"  "7769271419" "2398957554" "1204772662"</span>
+<span class="r-out co"><span class="r-pr">#&gt;</span>  [1] "2398957539" "1204772830" "3921522524" "2588146138" "7794286099"</span>
+<span class="r-out co"><span class="r-pr">#&gt;</span>  [6] "3158960778" "1204772877" "5351564647" "2588146016" "2398957748"</span>
 </code></pre></div>
     </div>
   </div>

diff --git a/docs/reference/dodgr_sample.html b/docs/reference/dodgr_sample.html
@@ -102,7 +102,7 @@ the requested <code>nverts</code>.</p>
 <span class="r-out co"><span class="r-pr">#&gt;</span> [1] 6813</span>
 <span class="r-in"><span class="va">graph</span> <span class="op">&lt;-</span> <span class="fu">dodgr_sample</span> <span class="op">(</span><span class="va">graph</span>, nverts <span class="op">=</span> <span class="fl">200</span><span class="op">)</span></span>
 <span class="r-in"><span class="fu"><a href="https://rdrr.io/r/base/nrow.html" class="external-link">nrow</a></span> <span class="op">(</span><span class="va">graph</span><span class="op">)</span> <span class="co"># generally around 400 edges</span></span>
-<span class="r-out co"><span class="r-pr">#&gt;</span> [1] 409</span>
+<span class="r-out co"><span class="r-pr">#&gt;</span> [1] 399</span>
 <span class="r-in"><span class="fu"><a href="https://rdrr.io/r/base/nrow.html" class="external-link">nrow</a></span> <span class="op">(</span><span class="fu"><a href="dodgr_vertices.html">dodgr_vertices</a></span> <span class="op">(</span><span class="va">graph</span><span class="op">)</span><span class="op">)</span> <span class="co"># 200</span></span>
 <span class="r-out co"><span class="r-pr">#&gt;</span> [1] 200</span>
 </code></pre></div>

diff --git a/docs/reference/dodgr_flows_aggregate.html b/docs/reference/dodgr_flows_aggregate.html
@@ -169,7 +169,7 @@ specifying a value via
 <span class="r-in"><span class="co"># This graph will only include those edges having non-zero flows, and so:</span></span>
 <span class="r-in"><span class="fu"><a href="https://rdrr.io/r/base/nrow.html" class="external-link">nrow</a></span> <span class="op">(</span><span class="va">graph</span><span class="op">)</span>; <span class="fu"><a href="https://rdrr.io/r/base/nrow.html" class="external-link">nrow</a></span> <span class="op">(</span><span class="va">graph_undir</span><span class="op">)</span> <span class="co"># the latter is much smaller</span></span>
 <span class="r-out co"><span class="r-pr">#&gt;</span> [1] 6813</span>
-<span class="r-out co"><span class="r-pr">#&gt;</span> [1] 776</span>
+<span class="r-out co"><span class="r-pr">#&gt;</span> [1] 962</span>
 <span class="r-in"></span>
 <span class="r-in"><span class="co"># The following code can be used to convert the resultant graph to an `sf`</span></span>
 <span class="r-in"><span class="co"># object suitable for plotting</span></span>

diff --git a/docs/reference/dodgr_flows_si.html b/docs/reference/dodgr_flows_si.html
@@ -182,7 +182,7 @@ of output flows being less than sums of input densities.</p>
 <span class="r-in"><span class="co"># This graph will only include those edges having non-zero flows, and so:</span></span>
 <span class="r-in"><span class="fu"><a href="https://rdrr.io/r/base/nrow.html" class="external-link">nrow</a></span> <span class="op">(</span><span class="va">graph</span><span class="op">)</span>; <span class="fu"><a href="https://rdrr.io/r/base/nrow.html" class="external-link">nrow</a></span> <span class="op">(</span><span class="va">graph_undir</span><span class="op">)</span> <span class="co"># the latter is much smaller</span></span>
 <span class="r-out co"><span class="r-pr">#&gt;</span> [1] 6813</span>
-<span class="r-out co"><span class="r-pr">#&gt;</span> [1] 824</span>
+<span class="r-out co"><span class="r-pr">#&gt;</span> [1] 693</span>
 </code></pre></div>
     </div>
   </div>

diff --git a/docs/reference/merge_directed_graph.html b/docs/reference/merge_directed_graph.html
@@ -117,7 +117,7 @@ aggregated across directions to undirected values.</p>
 <span class="r-in"><span class="co"># This graph will only include those edges having non-zero flows, and so:</span></span>
 <span class="r-in"><span class="fu"><a href="https://rdrr.io/r/base/nrow.html" class="external-link">nrow</a></span> <span class="op">(</span><span class="va">graph</span><span class="op">)</span>; <span class="fu"><a href="https://rdrr.io/r/base/nrow.html" class="external-link">nrow</a></span> <span class="op">(</span><span class="va">graph_undir</span><span class="op">)</span> <span class="co"># the latter is much smaller</span></span>
 <span class="r-out co"><span class="r-pr">#&gt;</span> [1] 6813</span>
-<span class="r-out co"><span class="r-pr">#&gt;</span> [1] 824</span>
+<span class="r-out co"><span class="r-pr">#&gt;</span> [1] 817</span>
 </code></pre></div>
     </div>
   </div>

diff --git a/NEWS.md b/NEWS.md
@@ -1,4 +1,4 @@
-# v 0.2.12.00X
+# v 0.2.13
 
 Major changes:
 
